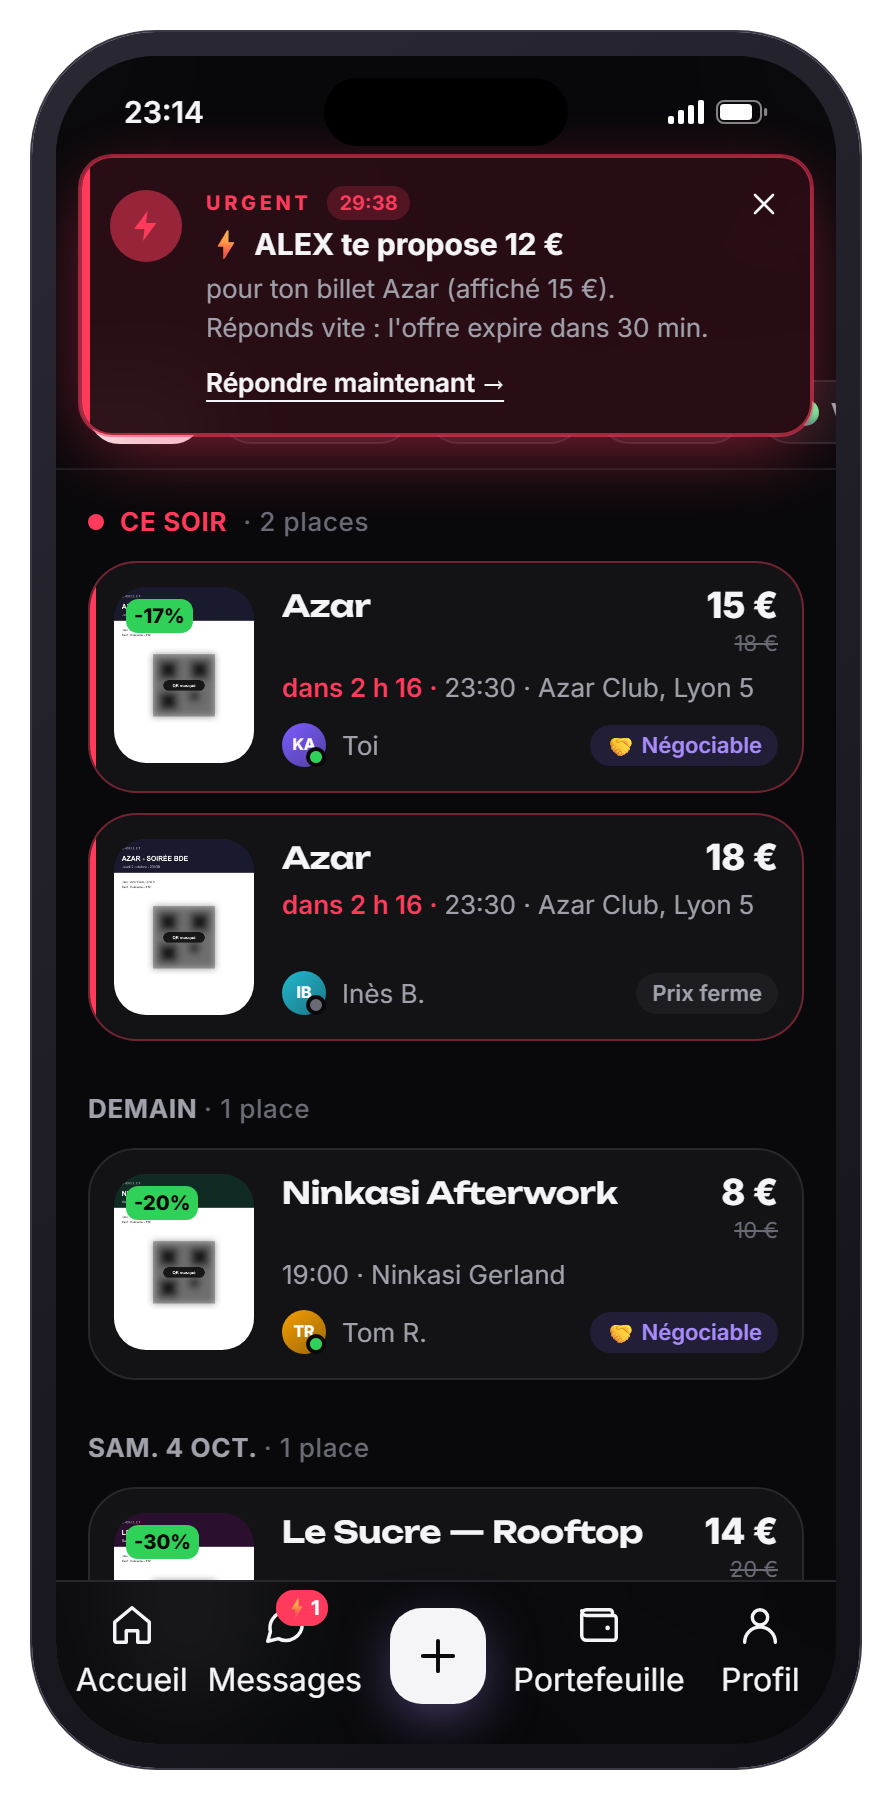
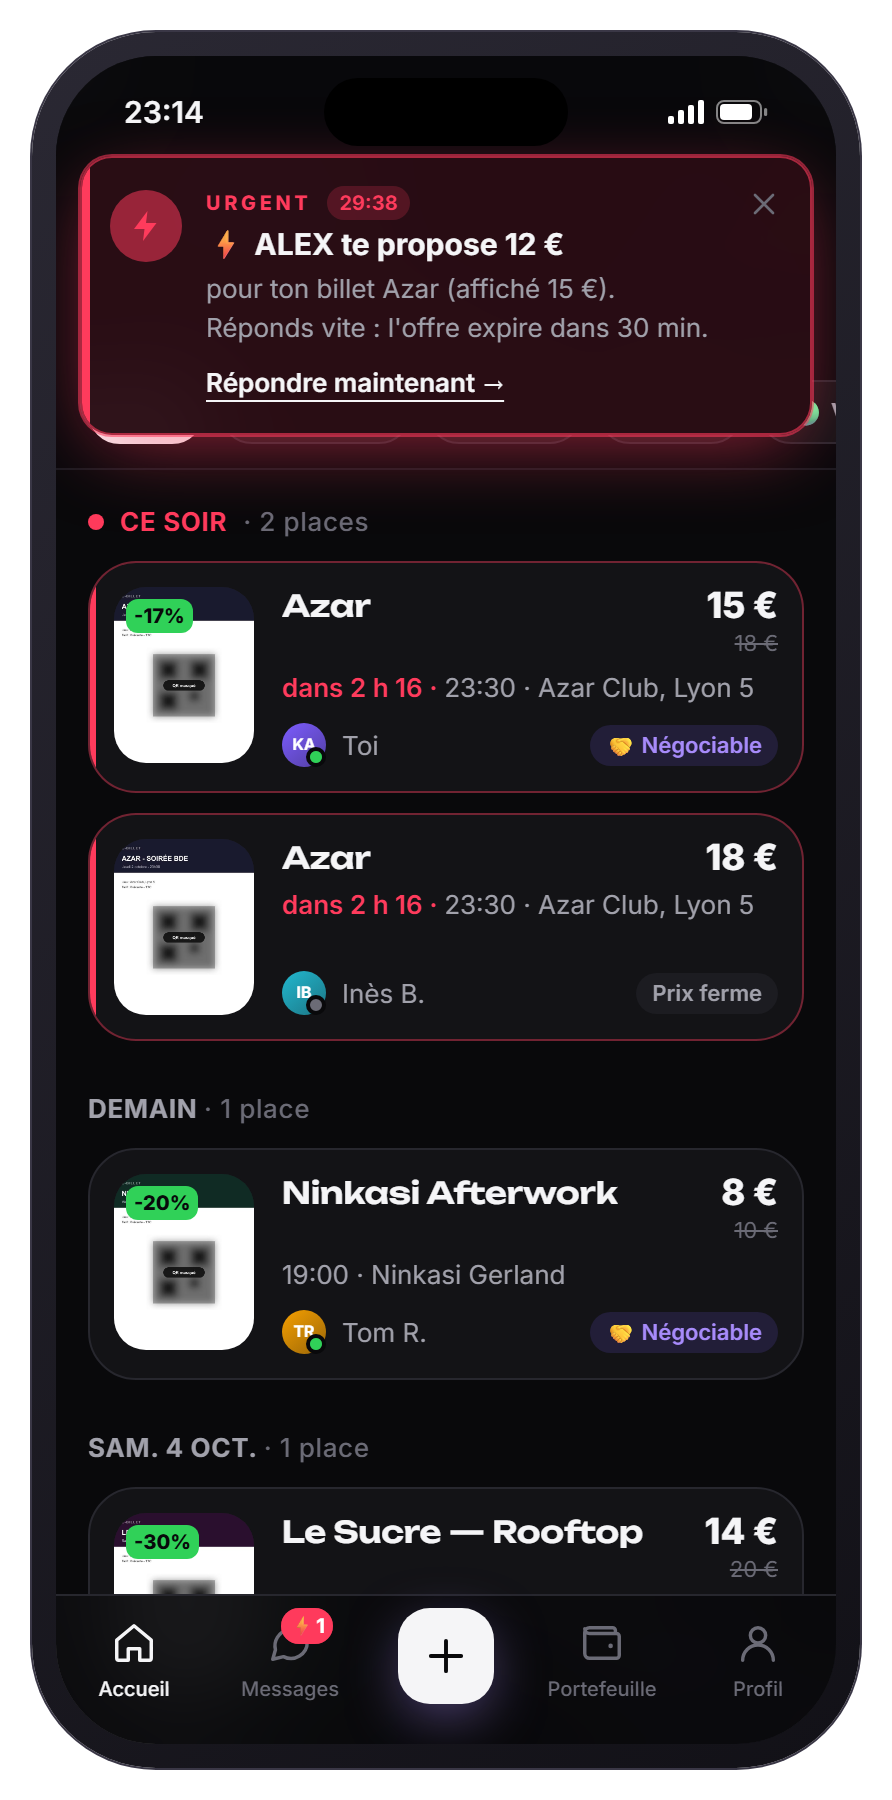
Correction : texte des boutons blancs visible

diff --git a/index.html b/index.html
@@ -72,7 +72,8 @@
   }
   html, body { background: var(--page); color: var(--text); }
   body { font-family: "Inter", ui-sans-serif, system-ui, sans-serif; -webkit-font-smoothing: antialiased; }
-  button { font: inherit; color: inherit; cursor: pointer; }
+  /* Hors calque : ne rien imposer d'autre, sinon les couleurs Tailwind (text-ink…) sont écrasées */
+  button { cursor: pointer; }
   :focus-visible { outline: 2px solid var(--violet); outline-offset: 2px; }
 
   .shell { min-height: 100dvh; display: grid; grid-template-columns: minmax(280px, 400px) auto; justify-content: center; align-items: start; gap: clamp(32px, 6vw, 96px); padding-inline: 24px; padding-block: 24px; background: radial-gradient(900px 600px at 70% 40%, rgb(124 92 255 / .16), transparent 70%), var(--page); }
